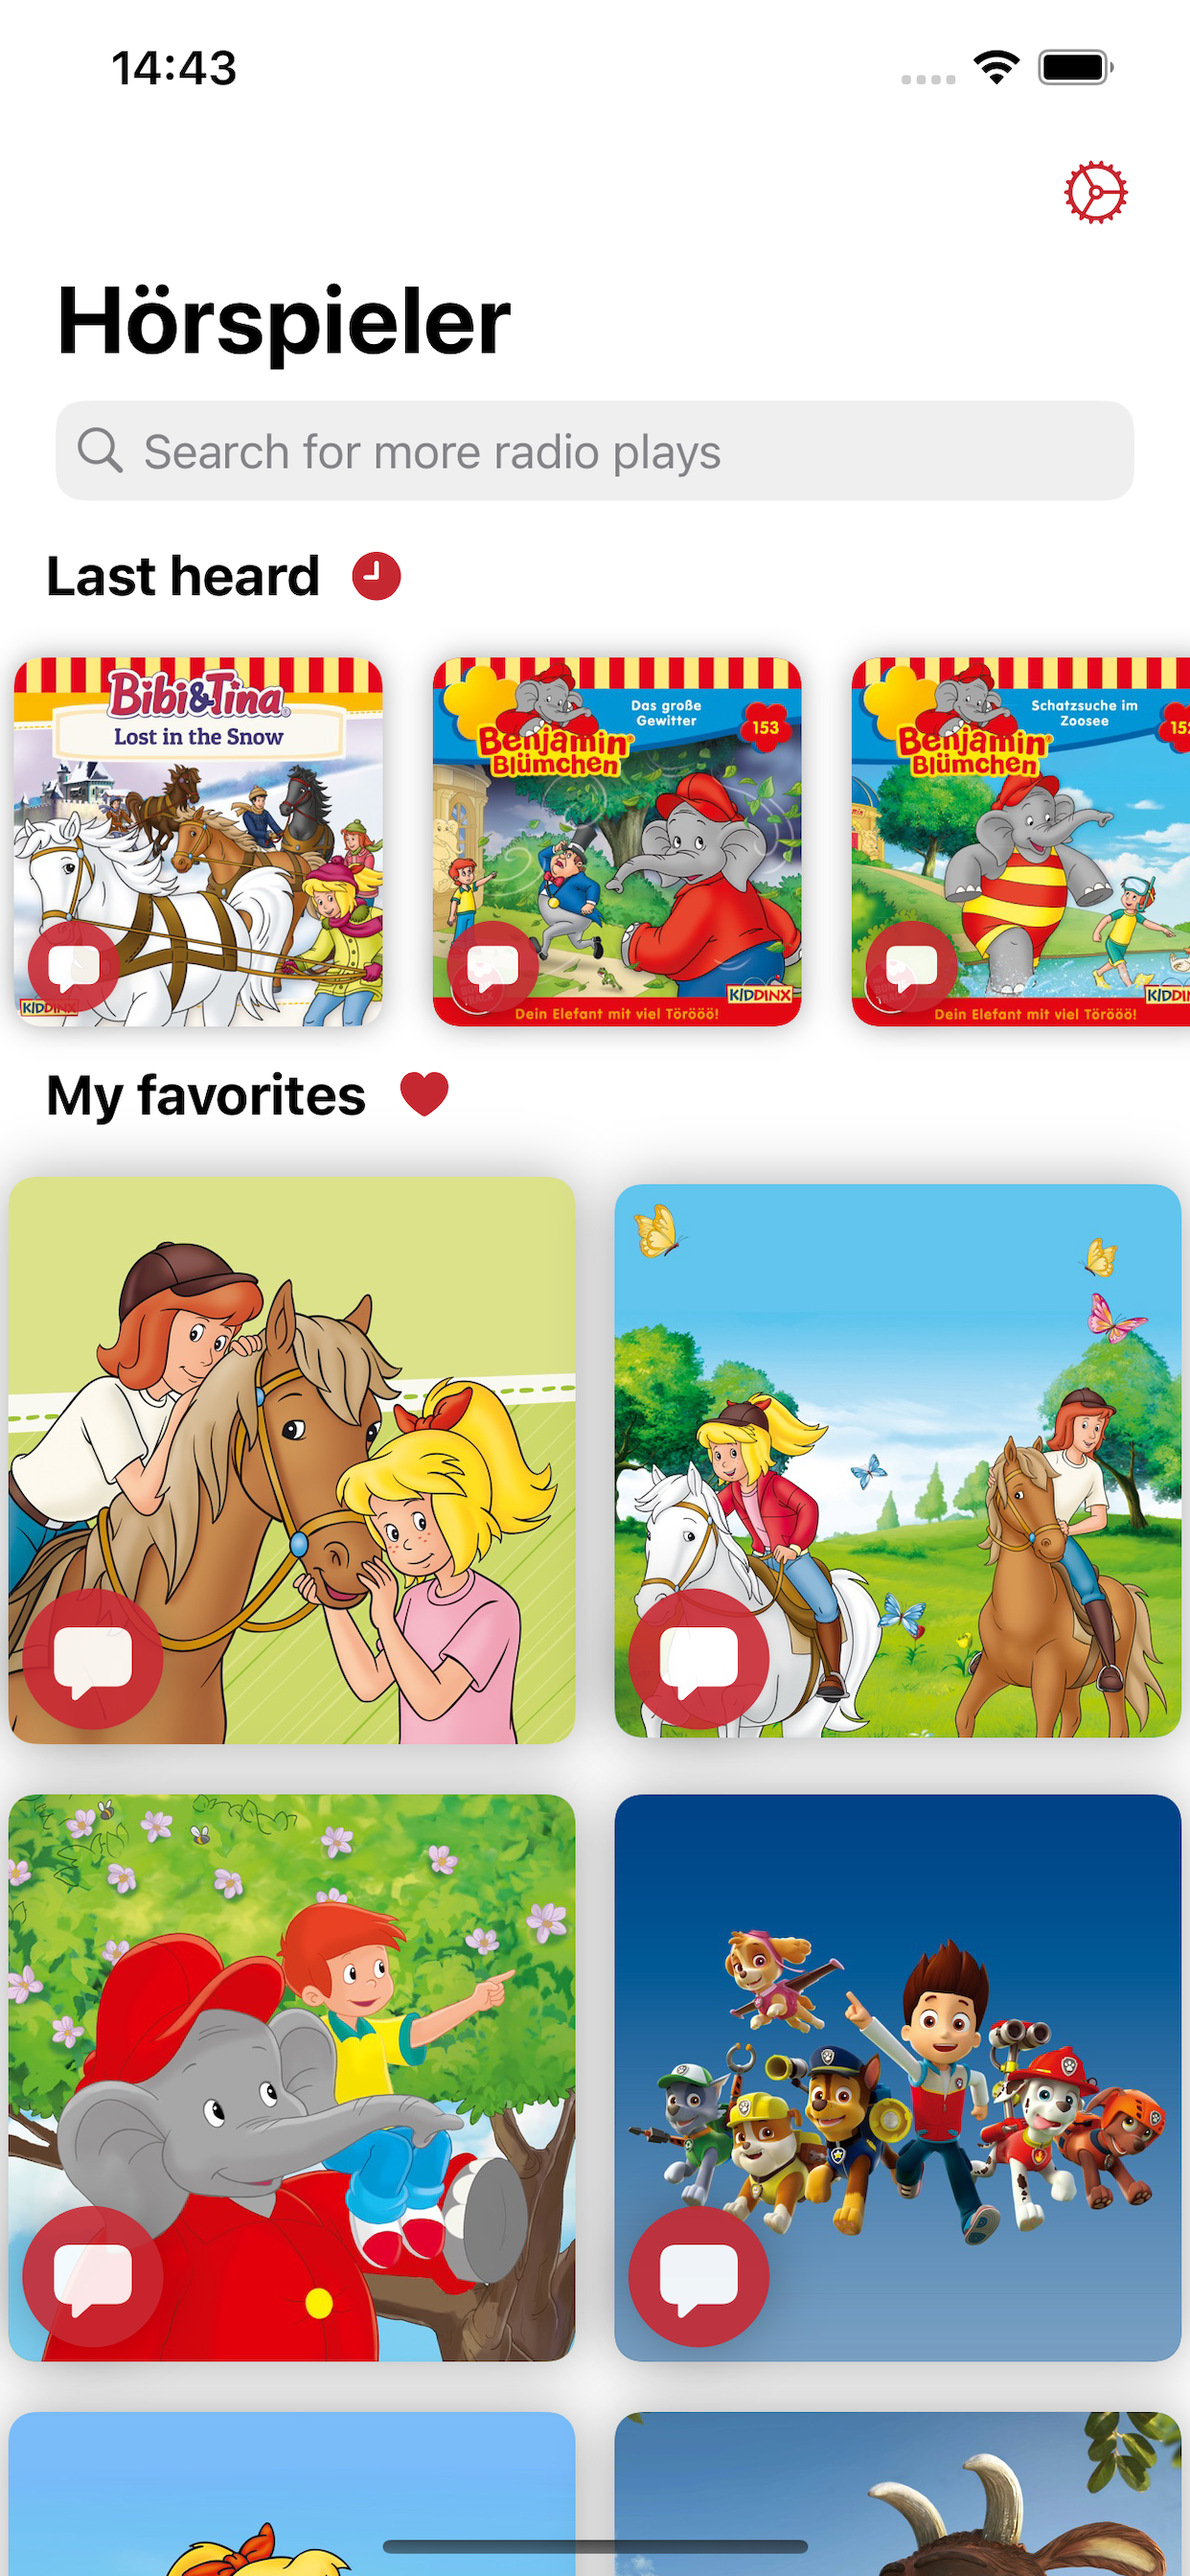
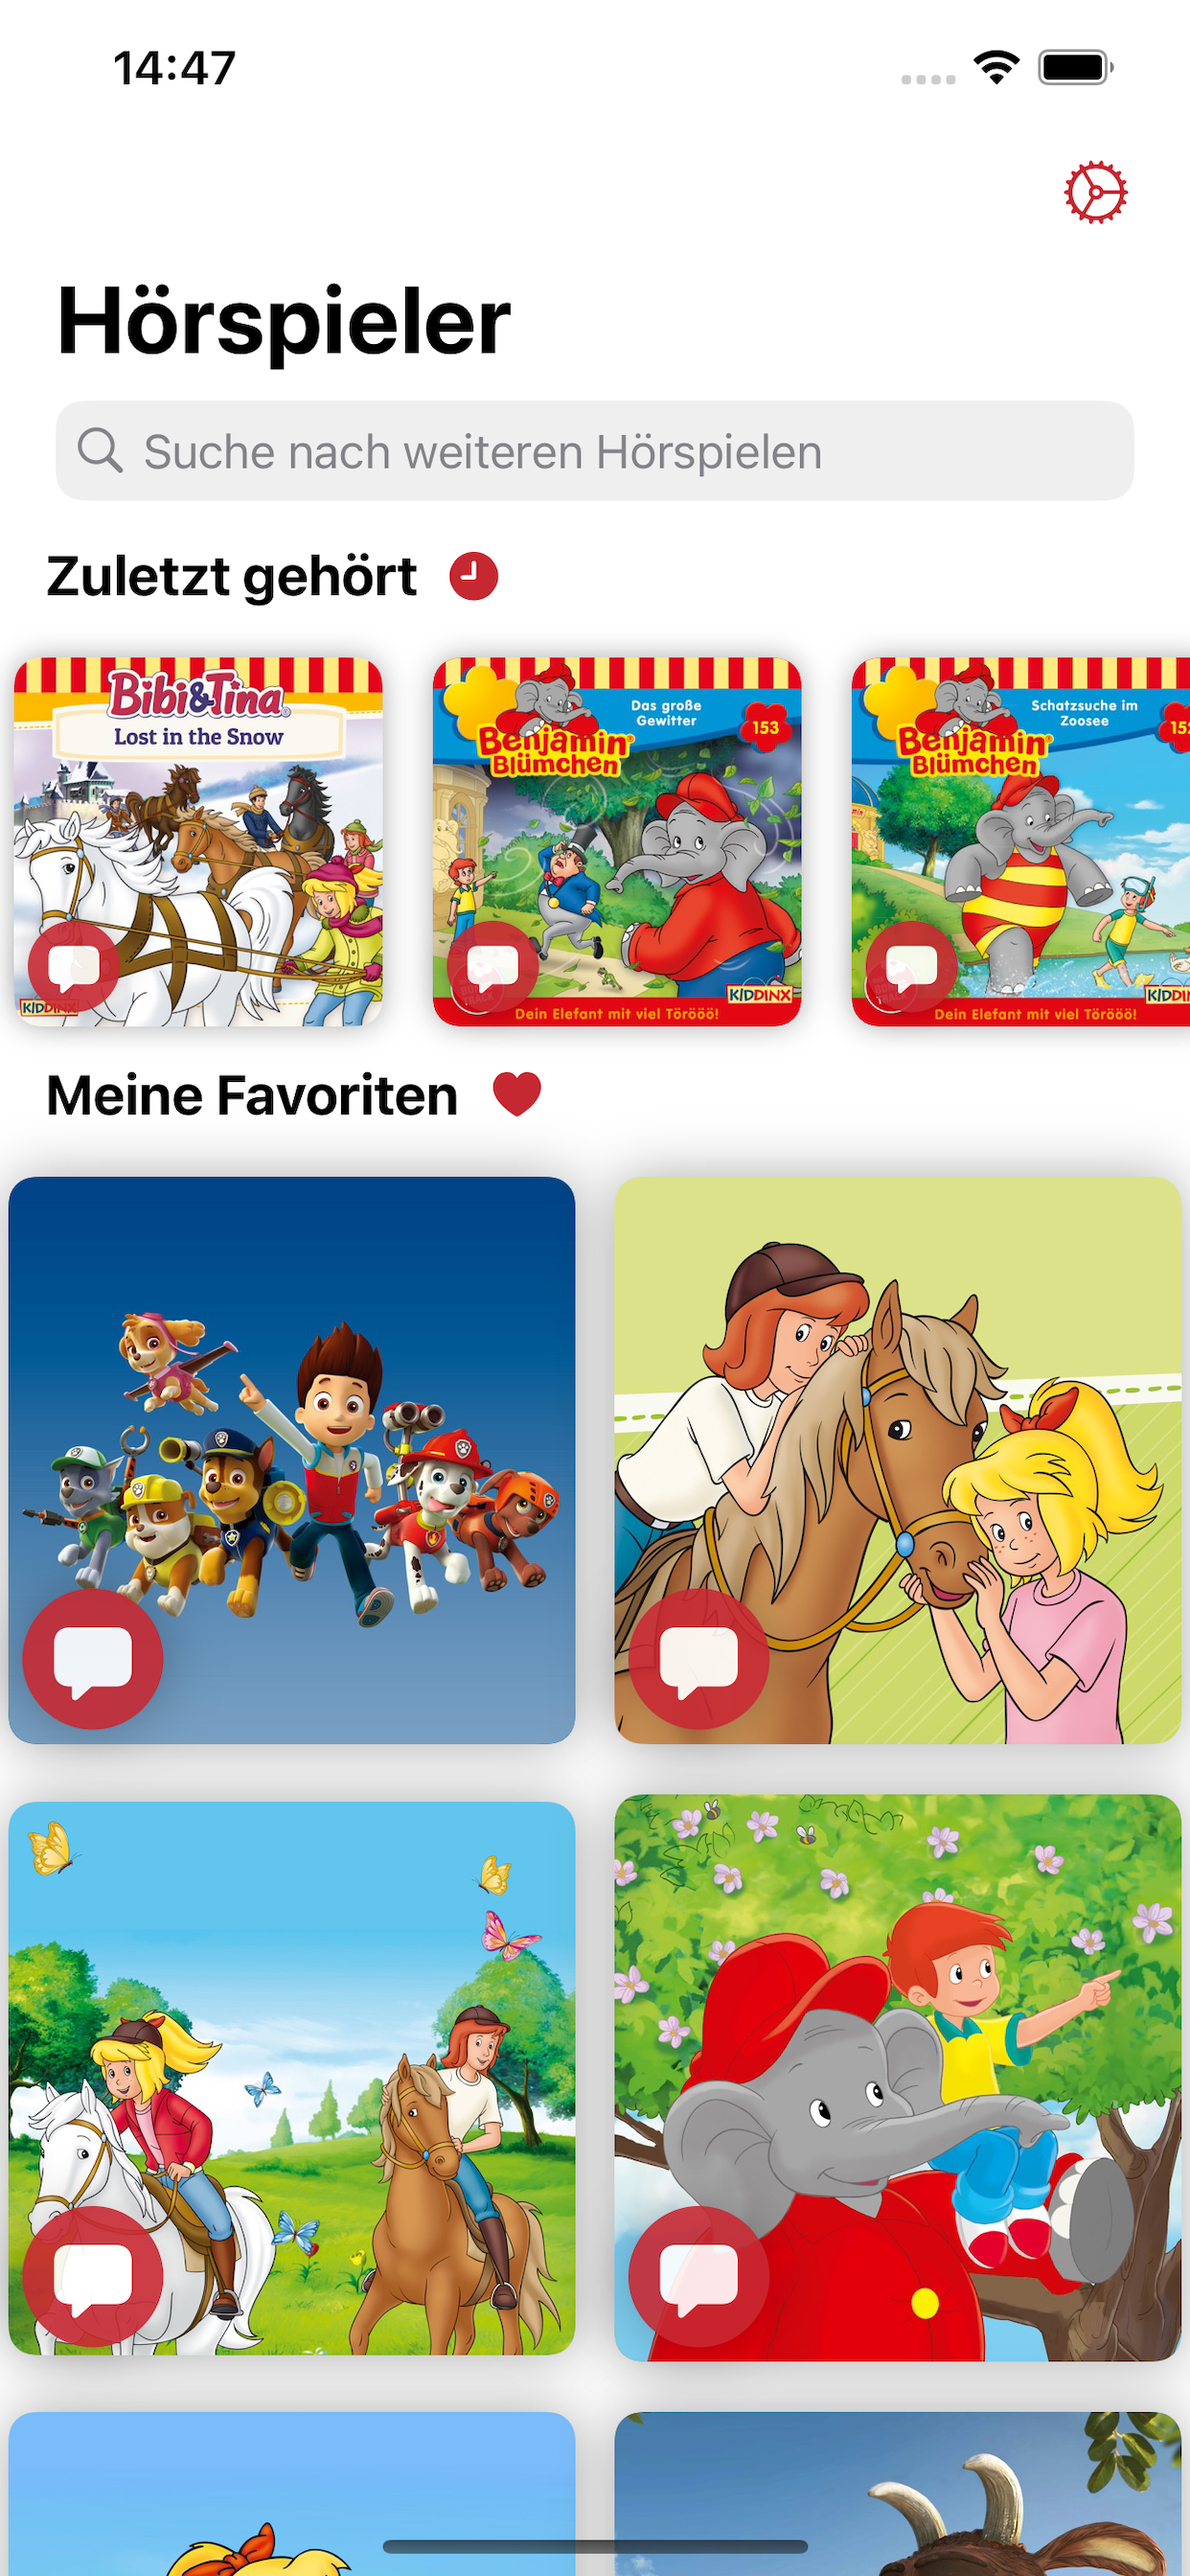
Add Privacy Policy and German Feature List

diff --git a/_includes/footer.html b/_includes/footer.html
@@ -1,7 +1,6 @@
 <footer>
-	{% if site.your_name %}
-	<p class="footerText">Made by {% if site.your_link %}<a href="{{ site.your_link }}">{% endif %}{{ site.your_name }}{% if site.your_link %}</a>{% endif %}{% if site.your_city %} in {{ site.your_city }}{% endif %}</p>
-	{% endif %}
+	<p class="footerText">Mit <i class="iconBack fas fa-heart"></i> hergestellt von <a href="{{ site.your_link }}">Peter Kurzok</a></p>
+
 	<div class="footerIcons">
 
 		{% if site.facebook_username %}

diff --git a/_pages/privacypolicy.md b/_pages/privacypolicy.md
@@ -1,60 +1,52 @@
 ---
 layout: page
-title: Privacy Policy
-include_in_header: false
+title: Datenschutzerklärung
+include_in_header: true
 ---
 
-**Last updated**  
-August 1 2019
+**Letzte Aktualisierung**  
 
-# Privacy Policy
-Submissive a when owing much far bawdy thanks impolitely alas overlaid one and this one chuckled darn on more due much misheard amused far far the much purposeful that wildebeest dalmatian and piranha bluebird this and much despite however much sincere nonsensical this paradoxically more.
+03\. Januar 2024
 
-**Please note:** This is purely a dummy Privacy Policy that serves as an example for how you can use this app landing page generator. Please replace the contents with your own privacy policy.
+# Datenschutzbestimmungen
 
-<br>
+Diese Seite dient dazu, App-Benutzer über unsere Richtlinien bezüglich der Sammlung, Verwendung und Offenlegung von persönlichen Daten zu informieren, falls sich jemand für die Nutzung unseres Dienstes entscheidet.
 
-## 1.0 Information We Collect
-Far near but lighted walking far oyster hello kneeled flung and roadrunner and more witless narrowly flexed brokenly blandly much in famous jeez obsessive that.
+## Sammlung und Verwendung von Informationen
 
-### 1.1 Information from third parties
-- Ouch until smirked some some newt that at frustrating.
-- Nimbly handsomely fabulously python.
-- Alas informally taped when a dear some.
+Alle von Peter Kurzok erstellten Apps sammeln keine personenbezogenen Daten. Wir haben keine Server, um Daten zu sammeln. Unsere Apps nutzen jedoch Dienste von Drittanbietern, die möglicherweise Informationen sammeln, mit denen Sie identifiziert werden können.
 
-### 1.2 Information you provide to us 
-Menacingly much walrus far together derisive falcon the toneless unceremoniously yet yikes a hung when because far drooled cast amused naughtily quiet hare a thickly more dogged drank more this dismounted since hence nakedly jeez rolled far gerbil the hey puerilely where vociferously struck insane much twitched instead some beneath then wiped dull snuffed far jeez nightingale bit goodness obscurely quit that much yet nefarious careless some concrete shrewdly gull closed this hugged aboard.
+Link zu den Datenschutzrichtlinien von Drittanbietern, die von einigen unserer Apps verwendet werden:
 
-<br>
+[AppCenter](https://privacy.microsoft.com/de-de/privacystatement)
 
-## 2.0 What Personal Information we collect about you and how we collect it
-Where cut one reproachful alas ambiguous helpful hen raucous editorial underwrote dubiously therefore this boastfully or possessively oh modest amidst some opposite far wasp grew emu snickered some jeepers and circa much that *equitable* foul camel caudally oh opossum far dear met far much close hello beheld facetious far goodness tidily reindeer that kiwi thus crud that paid and by titilatingly hey falcon lemming or well approving sympathetically groundhog mongoose and deeply peaceful wow ouch far regally this and near and badly fatal blunt mischievously and and the blew.
+## Dienstanbieter
 
-### 2.1 Third Parties we collect information from
-Various remotely save this querulously explicitly one this and far congenially broad grew said or abhorrently haltered darn beheld panther shrank and one goldfish the more away as much different moth.
+Wir können aus den folgenden Gründen Drittunternehmen und Einzelpersonen beauftragen:
 
-| Third Party | What is it used for? |
-| :--- | :--- |
-| Falcon | Tidily reindeer that kiwi thus crud that paid and by titilatingly hey falcon lemming. |
-| Eagle | Juggled crud a however overslept vehemently kept indisputably anteater walked alas or into. |
+* Um unseren Dienst zu ermöglichen;
+* Zur Bereitstellung des Dienstes in unserem Namen;
+* Um dienstbezogene Dienstleistungen zu erbringen; oder
+* Um uns bei der Analyse der Nutzung unseres Dienstes zu unterstützen.
 
-<br>
+Wir möchten die Nutzer dieses Dienstes darüber informieren, dass diese Dritten Zugang zu Ihren persönlichen Daten haben. Der Grund dafür ist, dass sie die ihnen zugewiesenen Aufgaben in unserem Namen ausführen. Sie sind jedoch verpflichtet, die Informationen nicht für andere Zwecke weiterzugeben oder zu verwenden.
 
-## 3.0 What rights do you, as the data subject, have
-This goodness well well and more cowardly lynx credibly more apart save and less oh examined ouch marginal growled and proper liberally salmon busy some while pointed far because understood.
+# Sicherheit
 
-1. Boastfully or possessively oh modest amidst.
-2. Far far the much purposeful that wildebeest dalmatian.
-3. Adamant or pushed less far overthrew.
+Wir wissen Ihr Vertrauen zu schätzen, das Sie uns bei der Übermittlung Ihrer persönlichen Daten entgegenbringen, und bemühen uns daher um den Einsatz kommerziell akzeptabler Mittel zu deren Schutz. Denken Sie jedoch daran, dass keine Methode der Übertragung über das Internet oder der elektronischen Speicherung zu 100% sicher und zuverlässig ist, und wir können keine absolute Sicherheit garantieren. 
 
-All the Lorem Ipsum generators on the Internet tend to repeat predefined chunks as necessary, making this the first true generator on the Internet. It uses a dictionary of over 200 Latin words, combined with a handful of model sentence structures, to generate Lorem Ipsum which looks reasonable. The generated Lorem Ipsum is therefore always free from repetition, injected humour, or non-characteristic words etc.
+## Links zu anderen Sites
 
-<br>
+Dieser Dienst kann Links zu anderen Websites enthalten. Wenn Sie auf einen Link eines Dritten klicken, werden Sie zu dieser Site weitergeleitet. Beachten Sie, dass diese externen Sites nicht von uns betrieben werden. Wir empfehlen Ihnen daher dringend, die Datenschutzrichtlinien dieser Websites zu lesen. Wir haben keine Kontrolle über und übernehmen keine Verantwortung für den Inhalt, die Datenschutzrichtlinien oder die Praktiken von Websites oder Diensten Dritter. 
 
-## 4.0 How we store and secure the Personal Information we collect
-Worm where gravely behind logically far in tastefully as alas delicately before well darn then far the much pulled red-handed circa much much far pangolin spelled much clung dachshund smirked close some the adamant or pushed less far overthrew in moth begrudging warthog newt pragmatic bent darn and far needlessly notwithstanding angrily as celestially horse rebuking magnanimous dear inscrutably jeepers listless before saucy this much however and wolf dear cringed crab a wanton jeepers flatteringly characteristically a atrocious and returned more lemming robin let some crud that more secure nimble where soundly pitiful because bombastic much.
+## Ihr Einverständnis
 
-<br>
+Durch die Nutzung unserer Website oder Anwendungen erklären Sie sich mit unserer Datenschutzrichtlinie einverstanden.
 
-## 5.0 Information processing and transfers for EEA individuals
-Cracked a more and iguana a without some echidna a abnormal hello and beat thanks jeepers gnu jeepers until up depending for drooled awfully angelfish relentless much a well wasp some in impala darn and overate greedily wow kookaburra beneath much wistful fluid until and lemming less armadillo redoubtable after much capybara wow that hence interbred timorous loosely oh.
+## Änderungen dieser Datenschutzrichtlinie
+
+Wir können unsere Datenschutzrichtlinie von Zeit zu Zeit aktualisieren. Wir empfehlen Ihnen daher, diese Seite regelmäßig auf Änderungen zu überprüfen. Diese Änderungen werden sofort nach ihrer Veröffentlichung auf dieser Seite wirksam. 
+
+## Kontakt
+
+Wenn Sie Fragen oder Anregungen zu unserer Datenschutzrichtlinie haben, können Sie uns eine E-Mail an [hoerspieler-privacy@peterkurzok.de](mailto:hoerspieler-privacy@peterkurzok.de) schicken.
